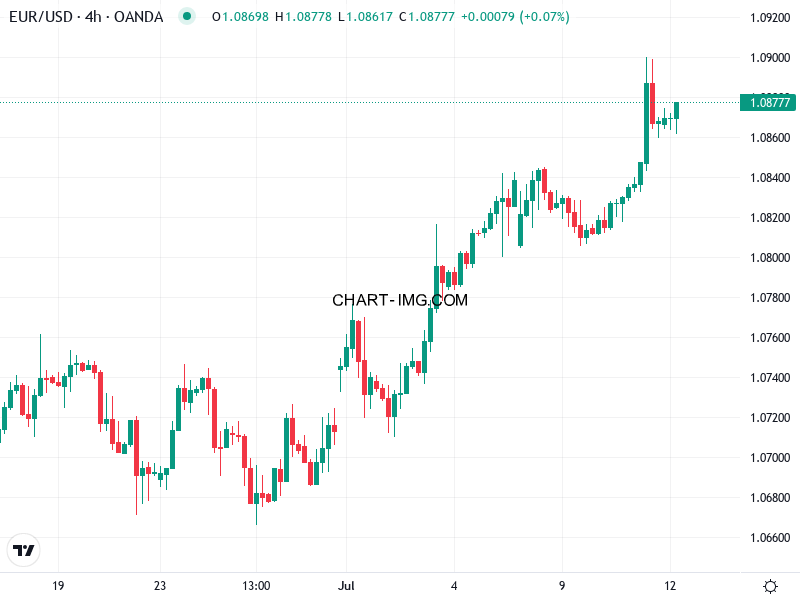
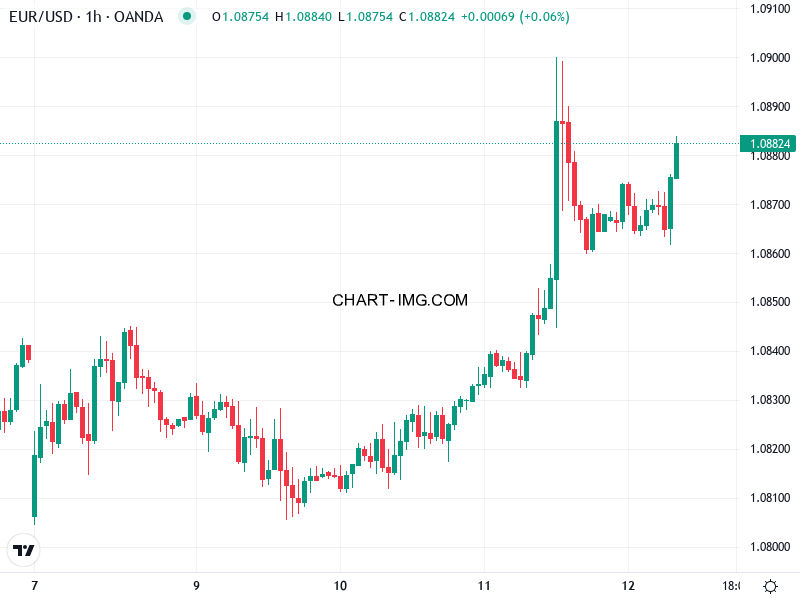
.
.

diff --git a/dataset.py b/dataset.py
@@ -4,7 +4,7 @@ import json
 api_key = '79fWD7OC8t6l1usTOZcvX3mD1H94jNAs8AUnhTjs'
 
 url='https://api.chart-img.com/v2/tradingview/advanced-chart'
-forex_pair = 'EURUSD'
+
 
 headers = {
     'x-api-key': api_key,
@@ -13,7 +13,7 @@ headers = {
 
 payload = {
     "symbol": "OANDA:EURUSD",
-    "interval": "4h",
+    "interval": "1h",
 }
 
 response = requests.post(url, headers=headers, data=json.dumps(payload))
